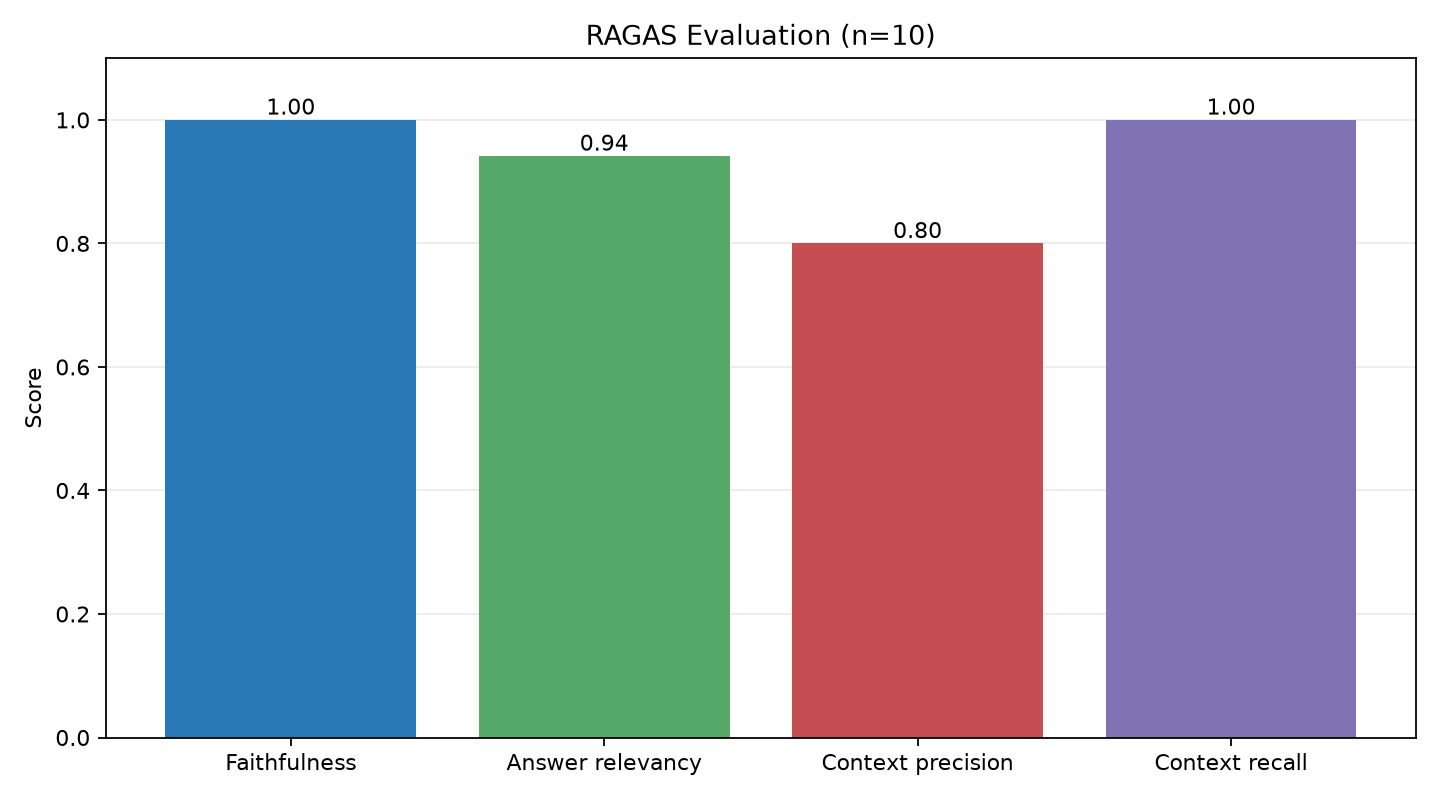
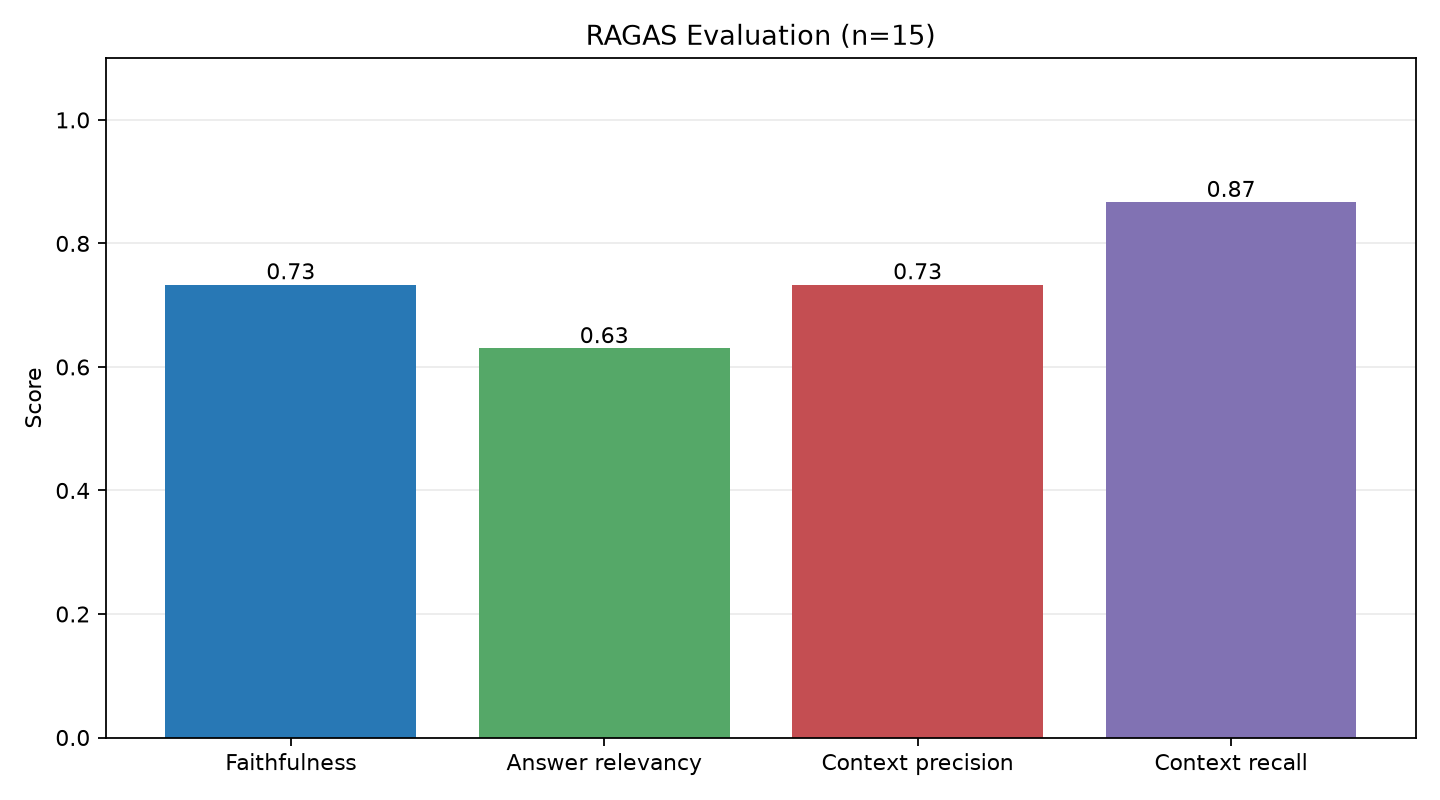
Expand evaluation to 15 Q&A, update results, add README

Changed region(s): [[0.0938, 0.125, 0.75, 0.4375], [0.75, 0.125, 0.9688, 0.25], [0.625, 0.0312, 0.6562, 0.0625]]

diff --git a/ragas-evaluation/evaluation/generate_dataset.py b/ragas-evaluation/evaluation/generate_dataset.py
@@ -33,7 +33,7 @@ with open(dataset_path, "r", encoding="utf-8") as file:
         question = row["question"]
         ground_truth = row["ground_truth"]
 
-        print(f"\nProcessing {i}/10...")
+        print(f"\nProcessing {i}/15...")
         print(f"Question: {question}")
 
         rag_result = run_rag(question)

diff --git a/ragas-evaluation/evaluation/evaluate_ragas.py b/ragas-evaluation/evaluation/evaluate_ragas.py
@@ -28,7 +28,7 @@ with RESULTS_FILE.open("r", encoding="utf-8") as file:
 dataset = Dataset.from_list(rows)
 
 llm = ChatGroq(
-    model="qwen/qwen3.8-27b",
+    model="openai/gpt-oss-120b",
     temperature=0,
     max_tokens=2048,
 )

diff --git a/rag-langchain/src/rag.py b/rag-langchain/src/rag.py
@@ -31,7 +31,7 @@ reranker = CrossEncoder(
 )
 
 llm = ChatGroq(
-    model="qwen/qwen3.8-27b",
+    model="openai/gpt-oss-120b",
     temperature=0,
     max_tokens=2048
 )

diff --git a/README.md b/README.md
@@ -1,0 +1,94 @@
+# RAG for Customer Support Tickets
+
+An end-to-end Retrieval-Augmented Generation (RAG) system that answers questions from customer support tickets, evaluated with RAGAS.
+
+Built as a personal learning project with LangChain, ChromaDB, Hugging Face embeddings, and an LLM served via Groq.
+
+## Motivation
+
+Support teams accumulate thousands of past tickets, but finding how a similar issue was handled usually means manual searching. This project explores whether a RAG system can retrieve relevant tickets and answer questions grounded only in that data, and measures how well it does so.
+
+## Pipeline
+
+```
+Kaggle CSV → Cleaning (pandas) → Chunking → Embedding → ChromaDB
+                                                          ↓
+Query ─┬─ mentions a ticket ID? ── yes → Metadata filter (ticket_id)
+       └─ otherwise ────────────── no  → Semantic retrieval (top-5)
+                                                          ↓
+              Answer (Groq LLM) ← Prompt ← Re-ranking → top-3 chunks
+```
+
+| Step | Implementation |
+|---|---|
+| Load & clean | pandas |
+| Chunking | `RecursiveCharacterTextSplitter` (chunk size 400, overlap 50) |
+| Embedding | `BAAI/bge-small-en-v1.5` via `HuggingFaceEmbeddings` |
+| Vector store | ChromaDB (via LangChain) |
+| Retrieval | Semantic top-5; metadata filter on `ticket_id` for ticket-lookup queries |
+| Re-ranking | CrossEncoder `cross-encoder/ms-marco-MiniLM-L-6-v2`, keep top-3 |
+| Prompt | LangChain `PromptTemplate` (answer only from context, with fallback response) |
+| LLM | `[openai/gpt-oss-120b]` via `ChatGroq` (temperature 0) |
+| Evaluation | RAGAS (judge: `[openai/gpt-oss-120b]`) |
+
+## Evaluation (RAGAS)
+
+15 Q&A pairs: 10 single-ticket lookups, 1 multi-ticket lookup, 1 semantic question, and 3 out-of-scope questions (the system should decline).
+
+![RAGAS results](ragas-evaluation/results/ragas_metrics.png)
+
+| Group | n | Faithfulness | Answer relevancy | Context precision | Context recall |
+|---|---|---|---|---|---|
+| Single-ticket lookup | 10 | 1.00 | 0.95 | 0.80 | 1.00 |
+| Multi-ticket / semantic | 2 | 0.00 | 0.00 | 0.00 | 0.00 |
+| Out-of-scope (should decline) | 3 | 0.33 | 0.00 | 1.00 | 1.00 |
+| **Overall** | **15** | **0.73** | **0.63** | **0.73** | **0.87** |
+
+Out-of-scope questions: 3/3 correctly declined with "I don't have enough information to answer that."
+
+### Findings
+
+- Single-ticket lookups work well because of metadata filtering.
+- The multi-ticket question failed: the ticket-ID regex captured only the first ID, so the second ticket was never retrieved. Planned fix: capture all ticket IDs in the query.
+- The one semantic question failed: retrieval returned unrelated tickets. With only one such question, this is not enough to judge semantic retrieval in general.
+- Context precision was 0.5 on four lookups: the header-only chunk was ranked above the chunk containing the actual description (likely re-ranker behavior, not yet verified).
+- RAGAS scores correct refusals as 0 for answer relevancy, and faithfulness on identical fallback answers was inconsistent, so LLM-judge scores are noisy on these cases.
+
+### Limitations
+
+- Small sample (n=15) on a synthetic dataset, mostly ticket-lookup questions, so this set mainly tests the metadata-filter path, not open-ended semantic retrieval.
+- If the judge model is the same as the generator, scores may be biased in its favor.
+
+## Project Structure
+
+```
+RAG-llm/
+├── rag-langchain/
+│   ├── data/                  # raw and cleaned ticket CSVs
+│   └── src/
+│       ├── load_data.py       # load & clean data
+│       ├── chunking.py
+│       ├── embedding.py
+│       ├── vectorDB.py        # build the Chroma vector store
+│       ├── retrieval.py
+│       ├── reranking.py
+│       ├── prompt.py
+│       ├── rag.py             # full RAG chain
+│       └── test_groq.py       # quick Groq connectivity check
+├── ragas-evaluation/
+│   ├── dataset/               # evaluation Q&A pairs
+│   ├── evaluation/
+│   │   ├── generate_dataset.py
+│   │   ├── evaluate_ragas.py
+│   │   └── plot_ragas_result.py
+│   └── results/               # scores, raw outputs, chart
+└── requirements.txt
+```
+
+## Dataset
+
+[Customer Support Ticket Dataset](https://www.kaggle.com/datasets/suraj520/customer-support-ticket-dataset/data) from Kaggle. This is a **synthetic** dataset (ticket descriptions contain unrelated filler sentences), so results may not transfer directly to real-world support data.
+
+## Tech Stack
+
+Python · LangChain · ChromaDB · Hugging Face (Sentence Transformers) · Groq · RAGAS · pandas
